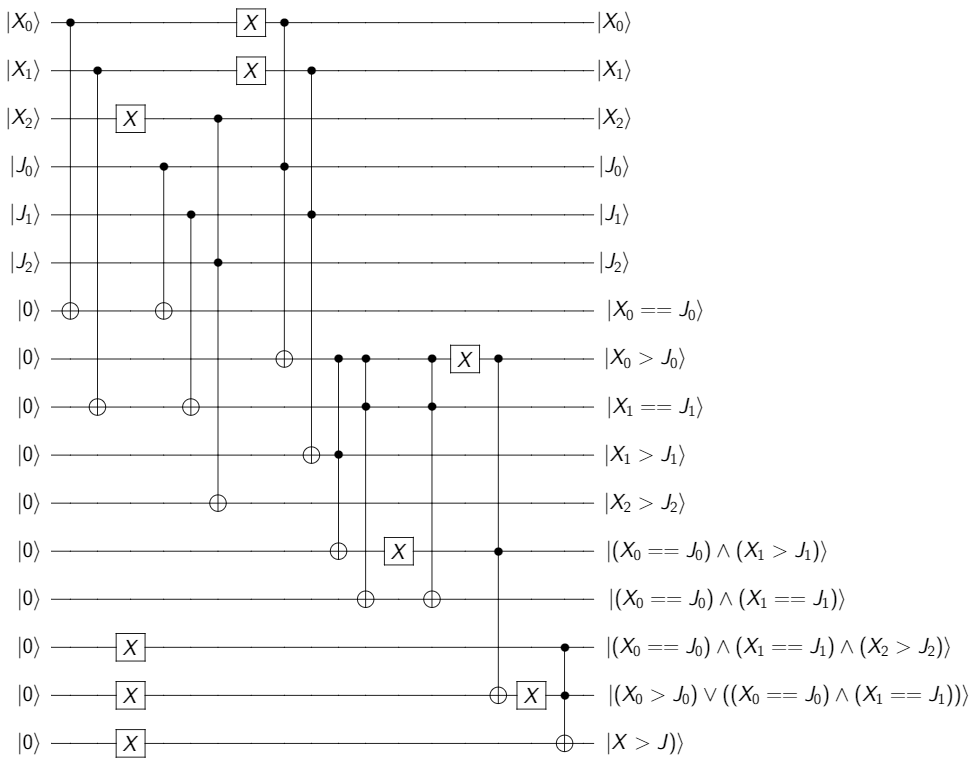
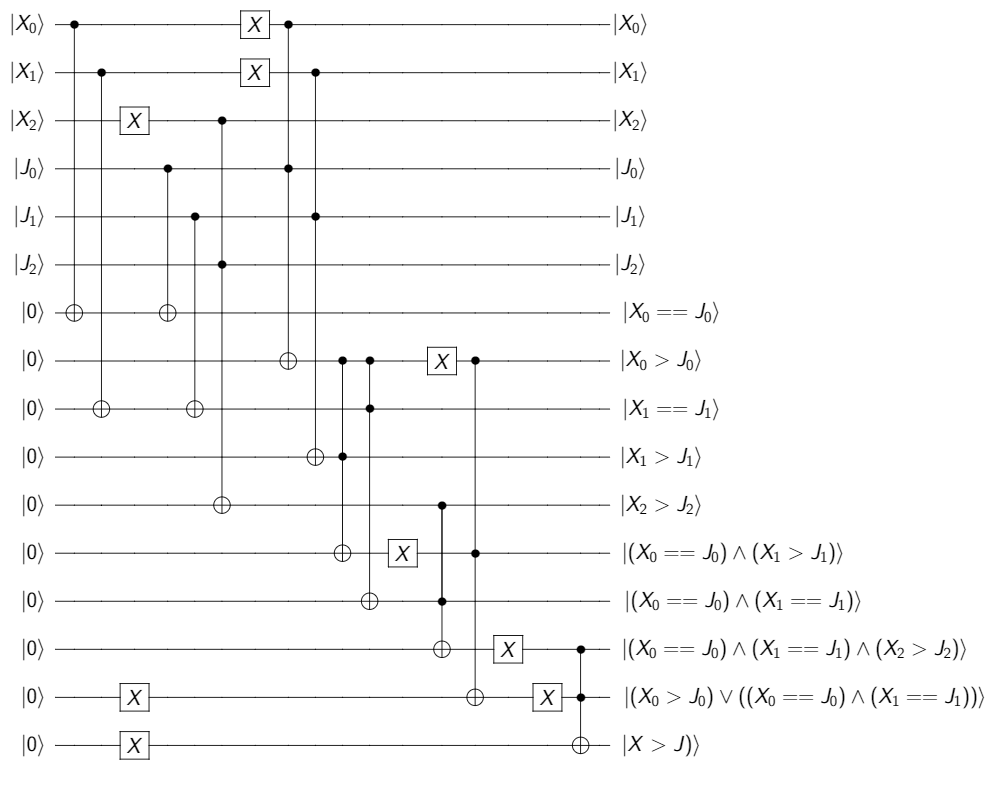
added 3qbit comparer with reversion

diff --git a/Minimum_Spanning_Tree/Documento/Images/3-qbit-comparer.py b/Minimum_Spanning_Tree/Documento/Images/3-qbit-comparer.py
@@ -1,0 +1,69 @@
+import qiskit as q
+X = q.QuantumRegister(3, "x")
+J = q.QuantumRegister(3, "j")
+A = q.QuantumRegister(10, "a")
+c = q.QuantumCircuit(X, J, A)
+
+# A0 = (X0 == J0)
+c.cx(X[0], A[0])
+c.cx(J[0], A[0])
+# A1 = (X0 > J0)
+c.x(X[0])
+c.ccx(X[0], J[0], A[1])
+
+# A2 = (X1 == J1)
+c.cx(X[1], A[2])
+c.cx(J[1], A[2])
+# A3 = (X1 > J1)
+c.x(X[1])
+c.ccx(X[1], J[1], A[3])
+
+# A4 = (X1 > J1)
+c.x(X[2])
+c.ccx(X[2], J[2], A[4])
+
+# A5 = A1 && A3
+c.ccx(A[1], A[3], A[5])
+
+# A6 = A1 && A2
+c.ccx(A[1], A[2], A[6])
+# A7 = A6 && A4
+c.ccx(A[6], A[4], A[7])
+
+# A8 = A1 || A5
+c.x(A[1])
+c.x(A[5])
+c.x(A[8])
+c.ccx(A[1], A[5], A[8])
+
+
+# A9 = A8 || A7
+c.x(A[7])
+c.x(A[8])
+
+# Part to not reverse
+c.x(A[9])
+c.ccx(A[7], A[8], A[9])
+
+# REVERSE
+c.x(A[8])
+c.x(A[7])
+c.ccx(A[1], A[5], A[8])
+c.x(A[8])
+c.x(A[5])
+c.x(A[1])
+c.ccx(A[6], A[4], A[7])
+c.ccx(A[1], A[2], A[6])
+c.ccx(A[1], A[3], A[5])
+c.ccx(X[2], J[2], A[4])
+c.x(X[2])
+c.ccx(X[1], J[1], A[3])
+c.x(X[1])
+c.cx(J[1], A[2])
+c.cx(X[1], A[2])
+c.ccx(X[0], J[0], A[1])
+c.x(X[0])
+c.cx(J[0], A[0])
+c.cx(X[0], A[0])
+
+print(c.draw(output="latex_source"))
